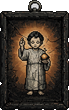
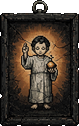
Quadro do Menino Jesus limpo, maior e na torre do Portão; botão para esconder a interface nos prédios (D-516, D-517)
Claude-Session: https://claude.ai/code/session_01DUWuezvzjAUhnjSiedgYuQ

diff --git a/docs/memory/decisions.md b/docs/memory/decisions.md
@@ -597,4 +597,5 @@ Formato: **D-número · data · quem** — decisão. *Onde está aplicada.*
   - **Save na vila:** sem expedição e com a cena "village" (save-load §3.4). A versão do save não mudou.
   - **Textos do título** ajustados à campanha: "Nova campanha", "Já existe uma campanha salva…" e "Nada salvo.".
 - **D-515 · 19/11/2026 · Alan** — Textos novos do título aprovados. **Animação da corrente no Mapa do Inferno:** a lanterna balança devagar na corrente (±3°). Quando a faixa da companhia fica mais funda do que da última vez que o mapa abriu, a lanterna **desce pela corrente** até lá, com o mapa rolando junto (0,7 s por faixa). Na primeira abertura ela desce da Porta do Inferno até o Círculo 2, e a cena acontece uma vez só. A última faixa mostrada fica na campanha (`map_lantern_band`, −1 em saves antigos: nunca aberto).
-- **D-516 · 19/11/2026 · Alan** — **Quadro do Menino Jesus** gerado por Alan no Meta AI, a partir do prompt de `prompts-guardioes-vila.md` (D-501). O original fica em `art_source/environments/village/props/`. O agente tirou o fundo, reduziu para 69 × 110 (`environments/village/props/gate_painting.png`) e pendurou o quadro na parede do Portão, à direita, abaixo da pilha de santos, um pouco tingido pela luz das tochas. É só iconografia: não fala, não age e não dá bônus. O quadro fica atrás da placa e dos cartões, para nunca cobrir um botão.
+- **D-516 · 19/11/2026 · Alan** — **Quadro do Menino Jesus** gerado por Alan no Meta AI, a partir do prompt de `prompts-guardioes-vila.md` (D-501). O original fica em `art_source/environments/village/props/`. O agente tirou o fundo (também o cinza dentro da argola), reduziu para 79 × 126 (`environments/village/props/gate_painting.png`) e, a pedido de Alan, pendurou o quadro numa parede de verdade: a torre redonda da direita do Portão, acima dos alforjes, junto à tocha. É só iconografia: não fala, não age e não dá bônus. O quadro fica atrás da interface e aparece inteiro com o botão do D-517.
+- **D-517 · 19/11/2026 · Alan** — **Botão para esconder a interface** em todos os prédios: "Ver o interior" no canto de baixo à esquerda esconde o guardião, os textos, a placa, a pilha de santos e a barra de baixo, e mostra o interior inteiro em luz plena (sem o escurecimento de 0,62). "Mostrar painéis" traz tudo de volta.
